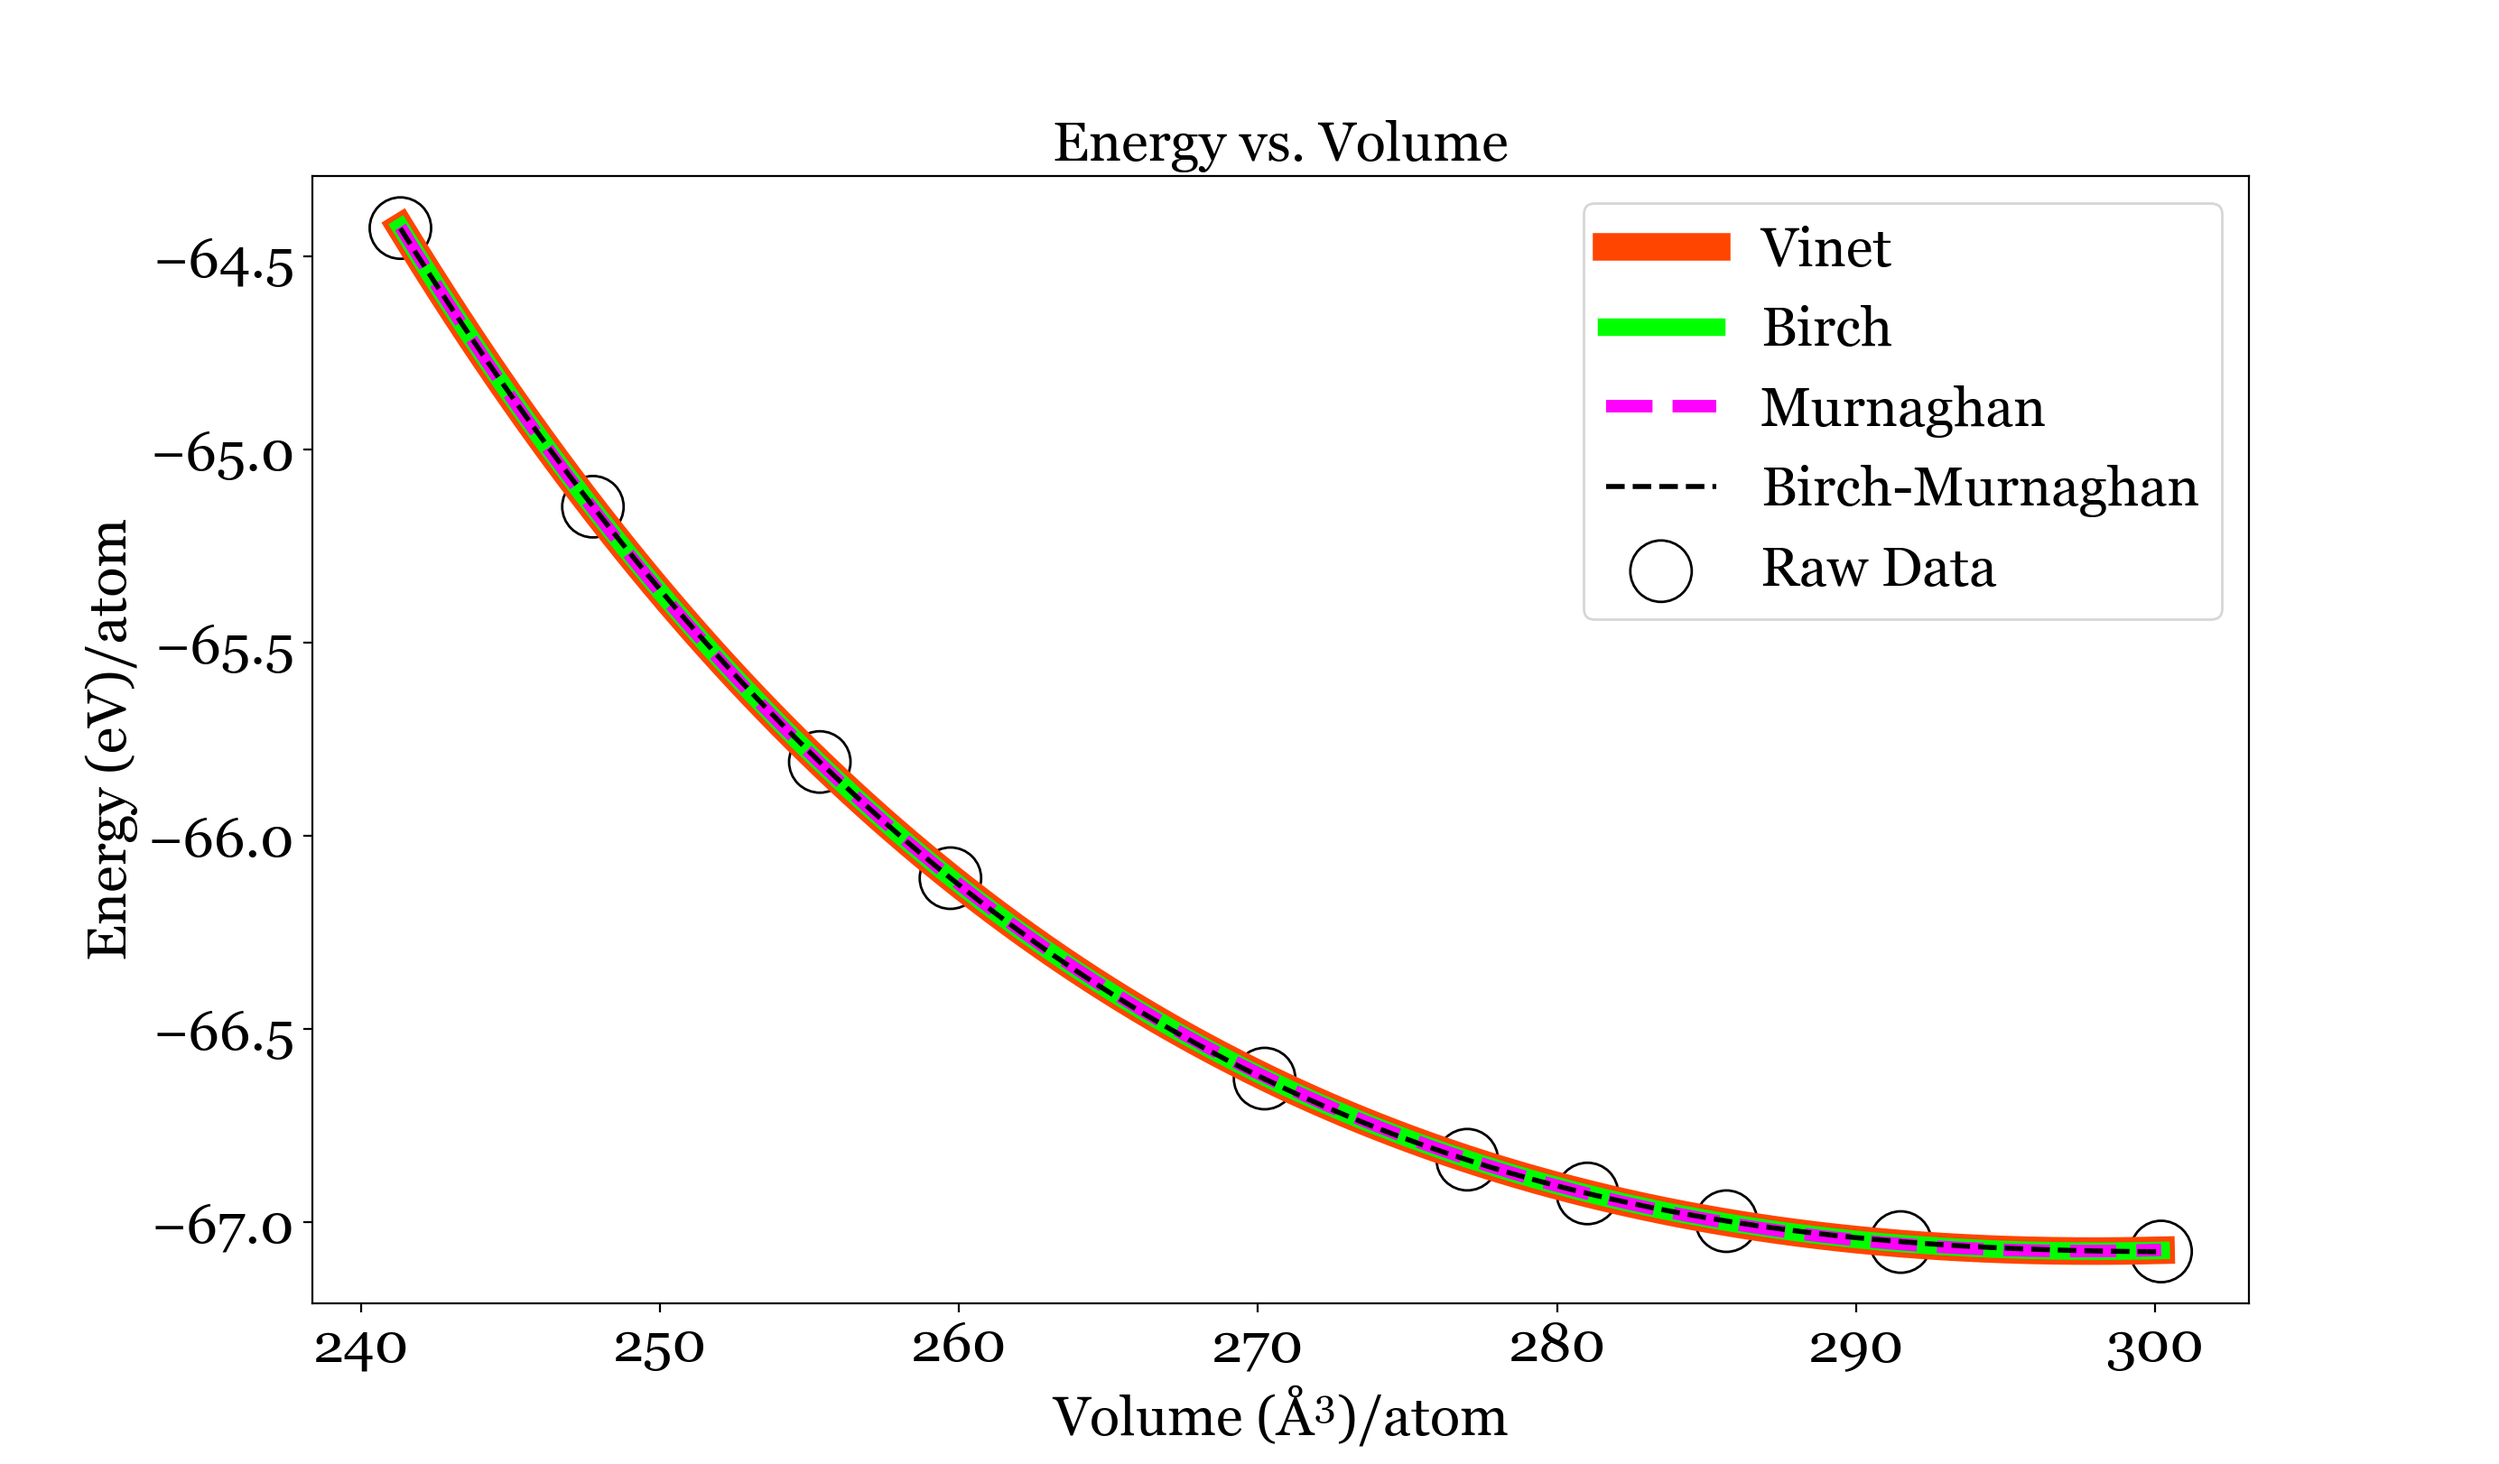
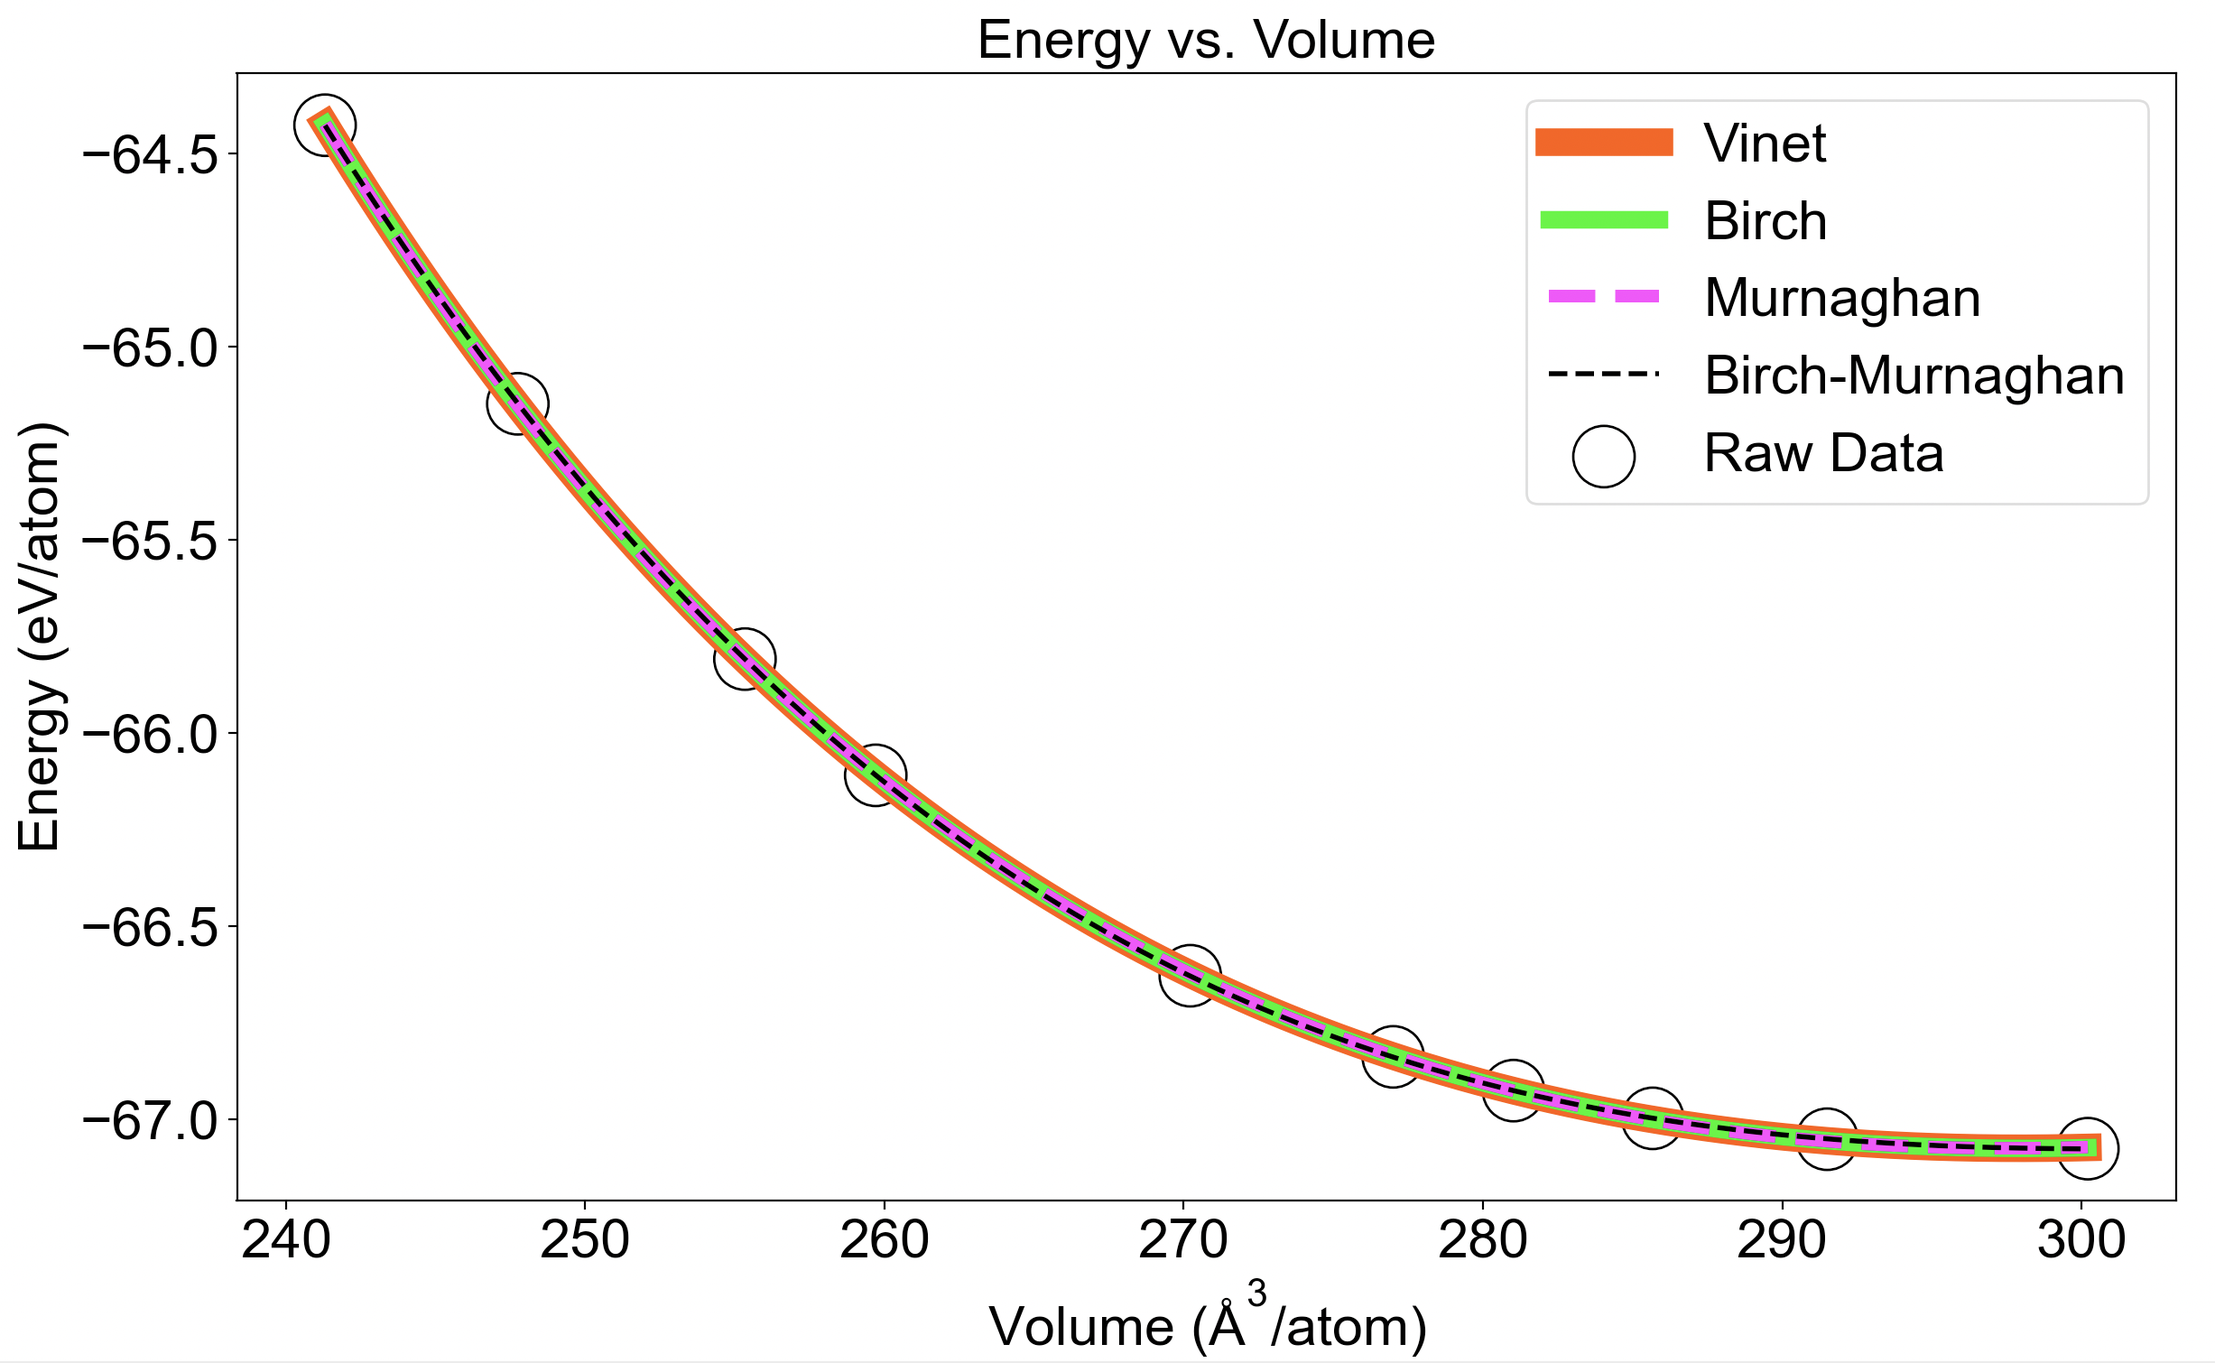
Corrected units in eos.py

diff --git a/mechelastic/eos/eos.py b/mechelastic/eos/eos.py
@@ -398,11 +398,11 @@ class EOS:
                 )
 
             if self.au:
-                axs.set_xlabel("Volume ($Bohr^3$)/atom")
-                axs.set_ylabel("Energy (Ha)/atom")
+                axs.set_xlabel("Volume ($Bohr^3$/atom)")
+                axs.set_ylabel("Energy (Ha/atom)")
             else:
-                axs.set_xlabel("Volume ($\AA^3$)/atom")
-                axs.set_ylabel("Energy (eV)/atom")
+                axs.set_xlabel("Volume ($\AA^3$/atom)")
+                axs.set_ylabel("Energy (eV/atom)")
             axs.set_title("Energy vs. Volume")
             plt.legend(loc="best")
             plt.show()
@@ -485,9 +485,9 @@ class EOS:
                 )
 
             if self.au:
-                axs2.set_xlabel("Volume ($Bohr^3$)/atom")
+                axs2.set_xlabel("Volume ($Bohr^3$/atom)")
             else:
-                axs2.set_xlabel("Volume ($\AA^3$)/atom")
+                axs2.set_xlabel("Volume ($\AA^3$/atom)")
             axs2.set_ylabel("Pressure (GPa)")
             axs2.set_title("Pressure vs. Volume")
             plt.legend(loc="best")
@@ -541,9 +541,9 @@ class EOS:
                 )
 
             if self.au:
-                axs.set_xlabel("Volume ($Bohr^3$)/atom")
+                axs.set_xlabel("Volume ($Bohr^3$/atom)")
             else:
-                axs.set_xlabel("Volume ($\AA^3$)/atom")
+                axs.set_xlabel("Volume ($\AA^3$/atom)")
             axs.set_ylabel("Pressure (GPa)")
             axs.set_title("Pressure vs. Volume")
             plt.legend(loc="best")
@@ -574,11 +574,11 @@ class EOS:
                 )
 
             if self.au:
-                axs2.set_ylabel("Energy (Ha)/atom")
-                axs2.set_xlabel("Volume ($Bohr^3$)/atom")
+                axs2.set_ylabel("Energy (Ha/atom)")
+                axs2.set_xlabel("Volume ($Bohr^3$/atom)")
             else:
-                axs2.set_ylabel("Energy (eV)/atom")
-                axs2.set_xlabel("Volume ($\AA^3$)/atom")
+                axs2.set_ylabel("Energy (eV/atom)")
+                axs2.set_xlabel("Volume ($\AA^3$/atom)")
             axs2.set_title("Energy vs. Volume")
             plt.legend(loc="best")
             plt.show()
